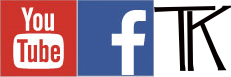
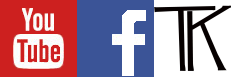
Make it black!
- Black background and white text.
- Editing full band picture to remove extra white around the edges and
make the gaps transparent (that's why .png).
- Editing icon set so the colors are consistent across pixels to make
the icons pop and look better on the black background.
- Adding a small gap between social media icons so they aren't so
smushed.
- Changing the icon zoom on small screens because there were some pixels
bleeding out. .81 seems to fix this on Chrome. Will need further
testing.

diff --git a/index.html b/index.html
@@ -61,6 +61,8 @@
       body {
         padding: 0.2em;
         font-family: 'Roboto', sans-serif;
+        background: black;
+        color: white;
       }
       h1, h2, h3 {
         font-family: 'Heebo', sans-serif;
@@ -75,6 +77,7 @@
       }
       .logo-tk {
         background-position: -154px 0;
+        cursor: pointer;
       }
       .logo-fb {
         background-position: -77px 0;
@@ -90,8 +93,8 @@
       .header__logo {
         order: 1;
         
-        /* To even out each side and center header title. Width of icon. */
-        margin-right: 77px;
+        /* To even out each side and center header title. Width of icon + margin offset from logo-fb. */
+        margin-right: 80px;
       }
       .header__title {
         font-size: 4em;
@@ -102,6 +105,9 @@
       .header__social {
         display: flex;
         order: 3;
+      }
+      .logo-fb {
+        margin-left: 3px;
       }
       .header__social > .logo-tk {
         display: none;
@@ -154,6 +160,9 @@
         .header__social > .logo-tk {
           display: block;
         }
+        .logo-fb {
+          margin: 0;
+        }
         .header__title {
           order: 0;
           flex-basis: 100%;
@@ -166,7 +175,9 @@
         }
         
         .logo-tk, .logo-fb, .logo-yt {
-          zoom: 0.7;
+          /* Very specific, I know. It helps keep the pixels in the bounding area.
+             Change it and there might be a pixel on the right side that peeks out. */
+          zoom: 0.81;
         }
       }
     </style>
@@ -189,7 +200,7 @@
     </div>
     
     <div class="banner">
-      <img id="bannerImage" src="FullBand.jpg" alt="Image of the band" />
+      <img id="bannerImage" src="FullBand.png" alt="Image of the band" />
     </div>
     
     <h2 id="shows">Upcoming Shows</h2>
